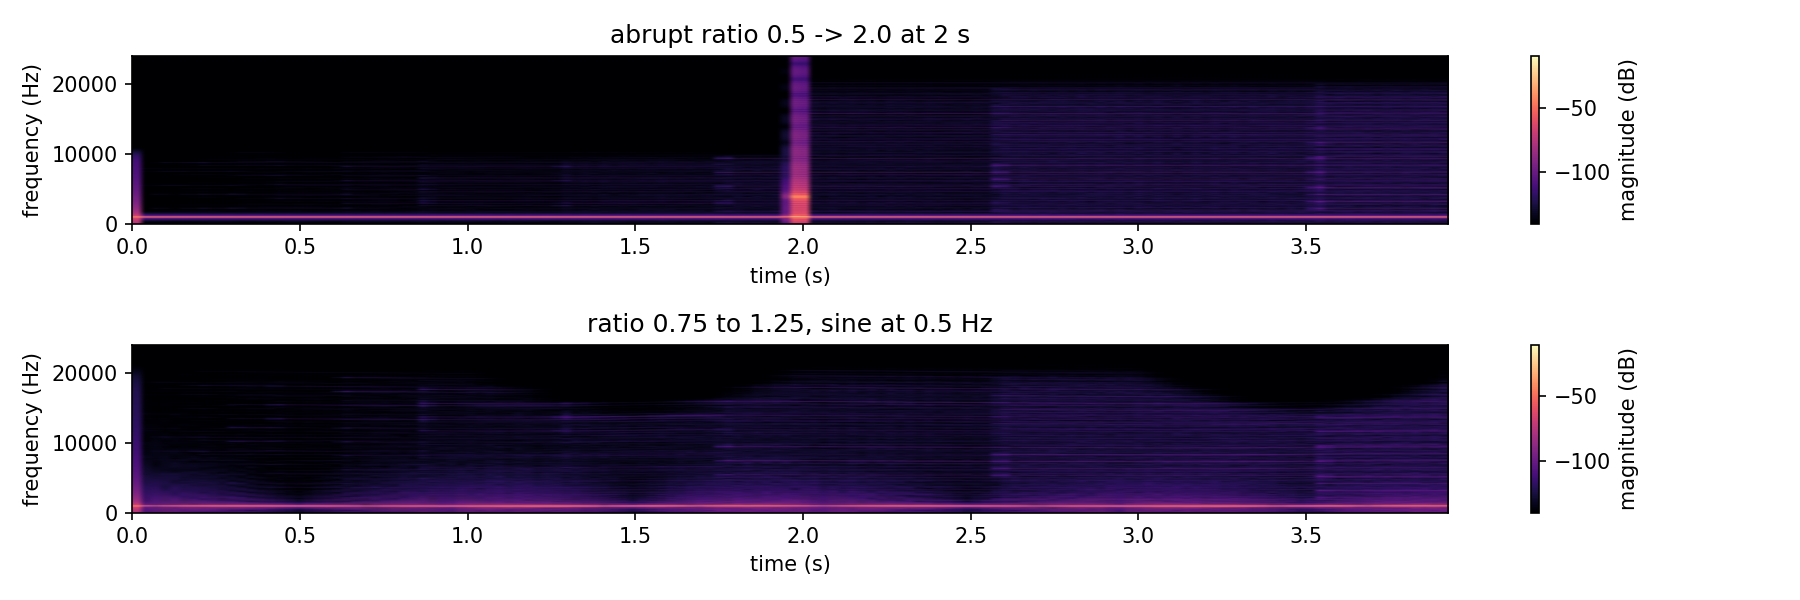
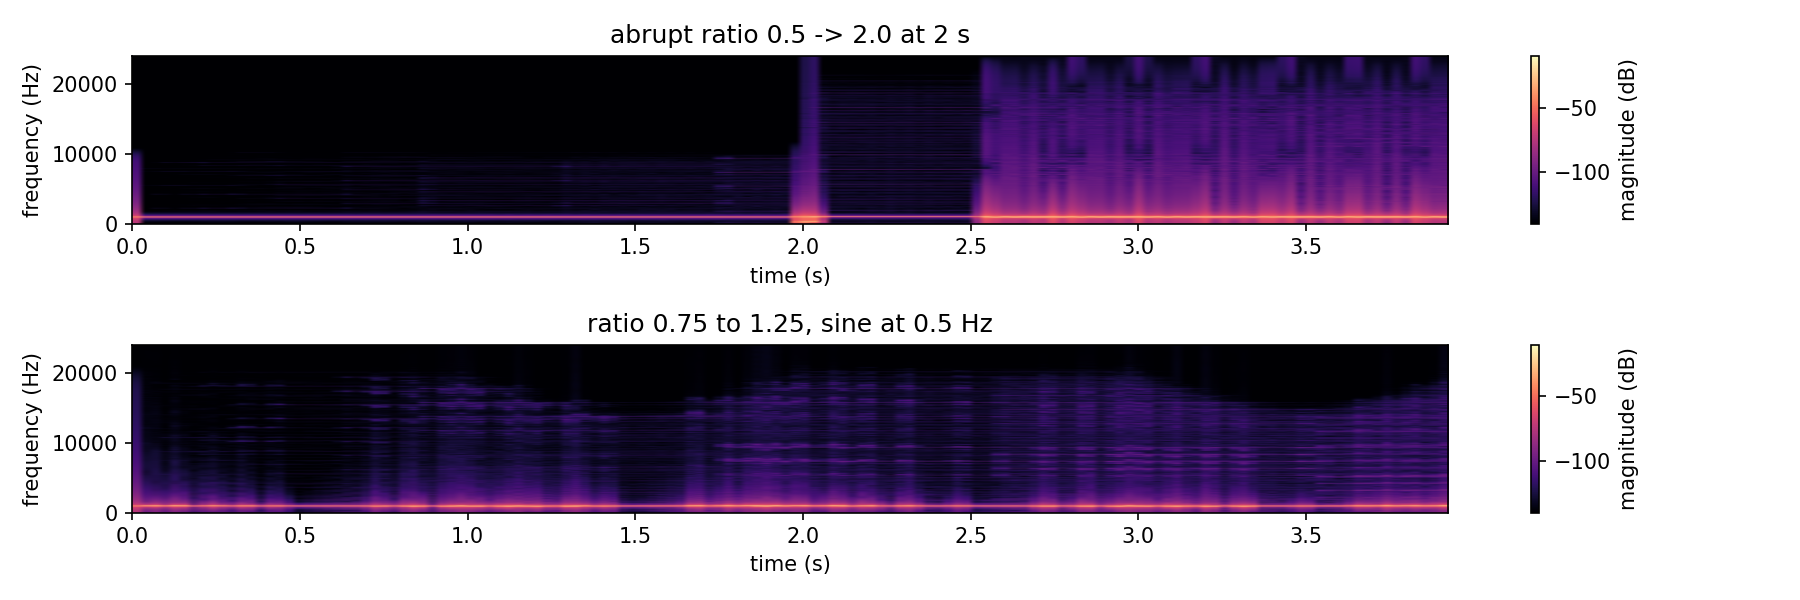
Document UpDownSampler ratio glides and the 16-sample block size

diff --git a/documentation/OverSampling/OverSamplingExplore.cpp b/documentation/OverSampling/OverSamplingExplore.cpp
@@ -19,6 +19,7 @@
 
 #include "Analysis/Spectrogram.h"
 #include "Delays/WobbleDelay.h"
+#include "Parameters/OctaveGlide.h"
 #include "SamplerateConverter/UpDownSampler.h"
 
 namespace
@@ -35,7 +36,7 @@ using Composed = AbacDsp::UpDownSampler<Delay, kFrame>;
 // The delay is given in host samples, so the wrapped delay line gets it in internal samples.
 void configure(Composed& composed, const float ratio, const bool modulated)
 {
-    composed.setRatio(ratio);
+    composed.setRatio(ratio, true);
     auto& delay = composed.processor();
     delay.setDelay(kHostDelay * ratio, true);
     if (modulated)
@@ -74,13 +75,14 @@ void configure(Composed& composed, const float ratio, const bool modulated)
 
 // Runs the input in host blocks, asking ratioAt(position) for the ratio before each block.
 template <typename RatioAt>
-[[nodiscard]] std::vector<float> render(Composed& composed, const std::vector<float>& input, RatioAt ratioAt)
+[[nodiscard]] std::vector<float> render(Composed& composed, const std::vector<float>& input, RatioAt ratioAt,
+                                        const size_t blockSize = kMaxBlock)
 {
     std::vector<float> output(input.size());
-    for (size_t pos = 0; pos < input.size(); pos += kMaxBlock)
+    for (size_t pos = 0; pos < input.size(); pos += blockSize)
     {
-        const auto count = std::min(kMaxBlock, input.size() - pos);
-        composed.setRatio(ratioAt(pos));
+        const auto count = std::min(blockSize, input.size() - pos);
+        composed.setRatio(ratioAt(pos), true);
         composed.processBlock(std::span<const float>{input}.subspan(pos, count),
                               std::span<float>{output}.subspan(pos, count));
     }
@@ -171,7 +173,7 @@ void writeDelayTime(std::ofstream& out)
     for (const float ratio : ratios)
     {
         Composed composed(kMaxBlock, kHostRate * ratio);
-        composed.setRatio(ratio);
+        composed.setRatio(ratio, true);
         composed.processor().setDelay(kInternalDelay, true);
         std::vector<float> input(60000, 0.f);
         input[kImpulseAt] = 1.f;
@@ -206,6 +208,108 @@ void writeRatioChanges(const std::string& outDir)
     configure(slowComposed, 1.f, false);
     writeGridAndWav(outDir + "/os_jump_slow", render(slowComposed, input, slow));
 }
+
+constexpr float kToneHz = 1000.f;
+constexpr float kChangeAtSeconds = 1.5f;
+
+// Glide rates in octaves per second for the study below; 0 is an immediate jump.
+constexpr std::array<float, 4> kGlideRates{0.f, 24.f, 6.f, 1.5f};
+
+// Renders the probe while the ratio goes from `from` to `to` after kChangeAtSeconds, either
+// at once or glided by OctaveGlide the way OrganicChorusVoice and PathfinderImpl do it.
+[[nodiscard]] std::vector<float> renderRatioChange(const float from, const float to, const float octavesPerSecond,
+                                                   const size_t blockSize, size_t& underruns)
+{
+    Composed composed(kMaxBlock, kHostRate);
+    configure(composed, from, false);
+    const bool immediate = octavesPerSecond <= 0.f;
+    AbacDsp::OctaveGlide glide(kHostRate, from, immediate ? 1.f : octavesPerSecond, immediate ? 1.f : octavesPerSecond);
+    const auto changeAt = static_cast<size_t>(kChangeAtSeconds * kHostRate);
+    bool changed = false;
+    const auto ratioAt = [&](const size_t pos)
+    {
+        if (!changed && pos >= changeAt)
+        {
+            glide.setTarget(to, immediate);
+            changed = true;
+        }
+        return glide.getValue(blockSize);
+    };
+    const auto audio = render(composed, makeTone(kToneHz, static_cast<size_t>(4.f * kHostRate)), ratioAt, blockSize);
+    underruns = composed.underruns();
+    return audio;
+}
+
+// Same change, done by the sampler's own glide (or a forced jump) instead of a driven ratio.
+[[nodiscard]] std::vector<float> renderClassGlide(const float from, const float to, const size_t blockSize,
+                                                  size_t& underruns)
+{
+    Composed composed(kMaxBlock, kHostRate);
+    configure(composed, from, false);
+    const auto input = makeTone(kToneHz, static_cast<size_t>(4.f * kHostRate));
+    const auto changeAt = static_cast<size_t>(kChangeAtSeconds * kHostRate);
+    std::vector<float> output(input.size());
+    for (size_t pos = 0; pos < input.size(); pos += blockSize)
+    {
+        if (pos == changeAt)
+        {
+            composed.setRatio(to);
+        }
+        const auto count = std::min(blockSize, input.size() - pos);
+        composed.processBlock(std::span<const float>{input}.subspan(pos, count),
+                              std::span<float>{output}.subspan(pos, count));
+    }
+    underruns = composed.underruns();
+    return output;
+}
+
+// Worst 256-sample window of the second difference, against the steady tone: 1.0 is clean.
+// Repeated samples add broadband energy without any large sample-to-sample step.
+[[nodiscard]] float broadbandRatio(const std::vector<float>& audio)
+{
+    constexpr size_t kWindow = 256;
+    const auto omega = 2.f * std::numbers::pi_v<float> * kToneHz / kHostRate;
+    const auto steady = 0.5f * omega * omega / std::numbers::sqrt2_v<float>;
+    float worst = 0.f;
+    for (auto start = static_cast<size_t>(kChangeAtSeconds * kHostRate) - 4000; start + kWindow < audio.size();
+         start += kWindow / 2)
+    {
+        double sum = 0.0;
+        for (size_t i = start; i < start + kWindow; ++i)
+        {
+            const auto d2 = static_cast<double>(audio[i]) - 2.0 * audio[i - 1] + audio[i - 2];
+            sum += d2 * d2;
+        }
+        worst = std::max(worst, static_cast<float>(std::sqrt(sum / kWindow)) / steady);
+    }
+    return worst;
+}
+
+void writeGlideStudy(const std::string& outDir)
+{
+    std::ofstream metrics(outDir + "/os_glide_metrics.txt");
+    metrics << "from to octaves_per_second(-1=sampler glide) broadband_ratio underruns\n";
+    const std::array<std::pair<float, float>, 5> changes{
+        {{0.25f, 1.f}, {0.5f, 2.f}, {1.f, 0.5f}, {1.f, 0.25f}, {1.f, 0.0625f}}};
+    for (const auto& [from, to] : changes)
+    {
+        for (const float rate : kGlideRates)
+        {
+            size_t underruns = 0;
+            const auto audio = renderRatioChange(from, to, rate, kFrame, underruns);
+            metrics << from << " " << to << " " << rate << " " << broadbandRatio(audio) << " " << underruns << "\n";
+        }
+        size_t underruns = 0;
+        const auto audio = renderClassGlide(from, to, kFrame, underruns);
+        metrics << from << " " << to << " -1 " << broadbandRatio(audio) << " " << underruns << "\n";
+    }
+
+    size_t unused = 0;
+    writeGridAndWav(outDir + "/os_glide_down_immediate", renderRatioChange(1.f, 0.25f, 0.f, kFrame, unused));
+    writeGridAndWav(outDir + "/os_glide_down_glide", renderClassGlide(1.f, 0.25f, kFrame, unused));
+    writeGridAndWav(outDir + "/os_glide_up_immediate", renderRatioChange(0.25f, 1.f, 0.f, kFrame, unused));
+    writeGridAndWav(outDir + "/os_glide_up_glide", renderClassGlide(0.25f, 1.f, kFrame, unused));
+}
 }
 
 int main(int argc, char* argv[])
@@ -221,6 +325,7 @@ int main(int argc, char* argv[])
     writeSweeps(outDir);
     writeDelayTime(delayTimeOut);
     writeRatioChanges(outDir);
+    writeGlideStudy(outDir);
 
     std::cout << "OverSamplingExplore: wrote plot data, spectrogram grids and WAVs into " << outDir << std::endl;
 }

diff --git a/documentation/OverSampling/README.md b/documentation/OverSampling/README.md
@@ -59,8 +59,59 @@ continuous across ratio 1.0, since the converters always run, also at exactly 1.
 
 Ratio changes. A steady 1 kHz tone passes through with modulation off, so everything visible is
 the ratio change. Top: the ratio jumps from 0.5 to 2.0 at 2 s. The ridge stays at 1 kHz, but a
-broadband burst, no wider than one analysis window (85 ms), appears at the jump. The likely cause
-is that the up-stage takes the new ratio at once while samples made at the old ratio are still in
-flight through the wrapped delay and the re-blocker. Bottom: the ratio moves between 0.75 and 1.25 as a slow sine, and the ridge stays
-clean. So a ratio that moves gradually is fine, and a step should be avoided until ratio changes
-are smoothed inside `UpDownSampler::setRatio()`, which is marked as a TODO in the header.
+broadband burst, no wider than one analysis window (85 ms), appears at the jump. The delay inside
+is fixed in internal samples, so the jump moves its host-time delay from 500 to 125 samples at
+once, and that step in the signal path is what remains as a burst. Bottom: the ratio moves between
+0.75 and 1.25 as a slow sine, and the ridge stays clean. So a ratio that moves gradually is fine,
+while a step should be glided, which `setRatio()` does by default, see below.
+
+![Immediate and glided ratio changes, 16-sample blocks](os_glide.png)
+
+Ratio glides. `setRatio(ratio)` glides to the new ratio at a fixed speed given per host sample,
+1/8000 octave up and 1/16000 down (6 and 3 octaves per second at 48 kHz), and `setRatio(ratio,
+true)` jumps. `OrganicChorusVoice` does its own gliding and adds a drift on top, so it forces its
+ratio every tile. The panels show a 1 kHz tone through 16-sample blocks, the standard block size,
+with the ratio changed at 1.5 s either at once or by the sampler's own glide. Going up (0.25 to
+1.0, bottom pair) the glide removes the burst of the immediate jump. Going down (1.0 to 0.25, top
+pair) the glide is clean too. What remains during a glide is a soft widening around the tone:
+the pitch shift of the delay time changing, as on a tape machine that changes speed.
+
+The table gives the worst 256-sample window of the second difference against the steady tone,
+where 1.0 is clean, and the number of FIFO underruns. The numeric rates in octaves per second
+drive the ratio from outside (forced each block) and show that the level correction below holds at
+any speed; "sampler glide" is `setRatio()` itself. Repeated samples add broadband energy
+without a large sample-to-sample step, which is why a peak step does not show this. The full
+table for all rates is written to `generated/os_glide_metrics.txt`.
+
+| change | rate (oct/s) | broadband ratio | underruns |
+|---|---|---|---|
+| 0.25 to 1.0 | immediate | 10.1 | 0 |
+| 0.25 to 1.0 | sampler glide | 1.21 | 0 |
+| 0.25 to 1.0 | 6 | 1.21 | 0 |
+| 0.25 to 1.0 | 1.5 | 1.06 | 0 |
+| 1.0 to 0.5 | immediate | 1.01 | 2 |
+| 1.0 to 0.5 | sampler glide | 1.01 | 0 |
+| 1.0 to 0.25 | immediate | 1.36 | 2 |
+| 1.0 to 0.25 | sampler glide | 1.01 | 0 |
+| 1.0 to 0.25 | 24 | 1.01 | 0 |
+| 1.0 to 0.25 | 6 | 1.01 | 0 |
+| 1.0 to 0.25 | 1.5 | 1.01 | 0 |
+| 1.0 to 0.0625 | sampler glide | 1.01 | 20 |
+| 1.0 to 0.0625 | 6 | 1.01 | 31 |
+| 1.0 to 0.0625 | 1.5 | 1.01 | 0 |
+
+- Upward glides remove the burst at every rate, and slower is cleaner.
+- Downward glides of up to two octaves are clean at every rate, with no underruns.
+- Immediate jumps are not smoothed: the delay time steps, and the two downward jumps still
+  underrun twice.
+- A four octave drop at 6 octaves per second is clean but still underruns, see the limit below.
+
+Two mechanisms keep a glide clean. First, the up stage uses the ratio of the previous chunk: the
+data still in flight was made at the previous ratio, and reading it at the new one caused most of
+the burst of an upward jump (through the converters alone it went from about 6 to 1.01). Second,
+when the ratio falls the look-ahead of the converters grows (about 50 host samples between 1.0 and
+0.25), which would run the output FIFO dry and repeat samples. A proportional correction of the
+up-stage ratio holds the FIFO at its 16-sample cushion instead: at most 5%, about 2% at 6 octaves
+per second (roughly 35 cents), and exactly zero at a constant ratio, so steady output is
+unchanged. Changes much larger than two octaves at fast rates reach the 5% cap, which is why the
+four octave row still shows underruns.

diff --git a/README.md b/README.md
@@ -79,6 +79,13 @@ deviation, a histogram, a hit timeline) as a standalone HTML report:
 
 See `examples/metronome/README.md`.
 
+## Block size
+
+Processing is block based, and 16 samples is the standard block size. The JUCE example
+plugins run their DSP in fixed 16-sample blocks (`NumSamplesPerBlock`), block-based classes take
+their block size as a template parameter, and behaviour that depends on the block size is
+verified at 16. Large host blocks are not a design target.
+
 ## Building and testing
 
 ```bash
